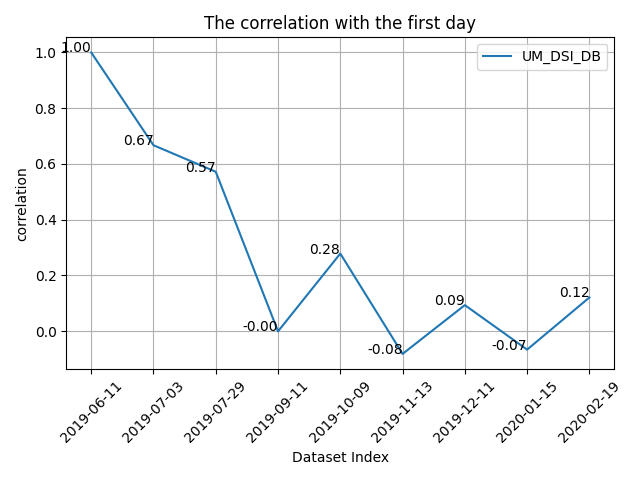
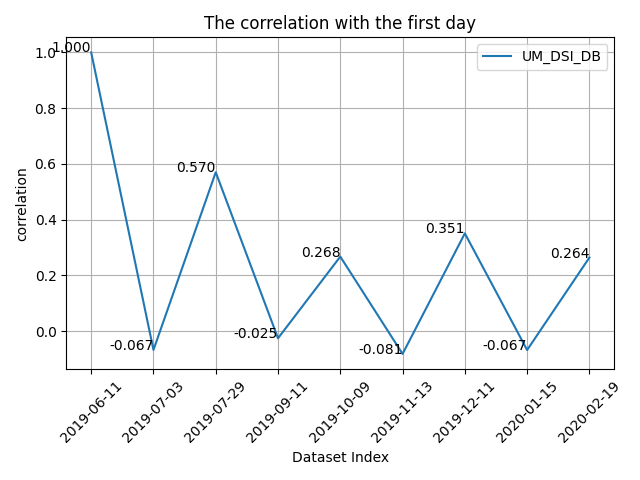
Modify corr_analysis

diff --git a/data/data_analysis/corr_analysis.py b/data/data_analysis/corr_analysis.py
@@ -40,7 +40,9 @@ def analyzing_dataset(datasets, sample_size):
 
         # 计算直方图之间的相关性
         correlations = []
-        for target_hist in hist_list:
+        for i, target_hist in enumerate(hist_list):
+            if i == 0:
+                continue
             correlation = cv2.compareHist(hist_list[0], target_hist, cv2.HISTCMP_CORREL)
             correlations.append(correlation)
         
@@ -49,23 +51,24 @@ def analyzing_dataset(datasets, sample_size):
         plt.plot(correlations, label=key)
         # Adding dataset index numbers
         for i, correlation in enumerate(correlations):
-            plt.text(i, correlation, f"{correlation:.2f}", ha='right')
+            plt.text(i, correlation, f"{correlation:.3f}", ha='right')
         
 
 
 
-file_list1 = ['../231116/GalaxyA51/wireless_training.csv', '../231218/GalaxyA51/wireless_training.csv', '../240117_troy/GalaxyA51/wireless_training.csv', '../240217_troy/GalaxyA51/wireless_training.csv', '../240319/GalaxyA51/wireless_training.csv']
-feature_selection1 = ['Beacon_1', 'Beacon_2', 'Beacon_3', 'Beacon_4', 'Beacon_5', 'Beacon_6', 'Beacon_7']
-file_list2 = ['../231116/GalaxyA51/wireless_training.csv', '../231218/GalaxyA51/wireless_training.csv', '../240117/GalaxyA51/wireless_training.csv', '../240217/GalaxyA51/wireless_training.csv', '../240319/GalaxyA51/wireless_training.csv']
+file_list1 = ['../231116/GalaxyA51/wireless_training.csv', '../231116/GalaxyA51/wireless_training.csv', '../231218/GalaxyA51/wireless_training.csv', '../240117_troy/GalaxyA51/wireless_training.csv', '../240217_troy/GalaxyA51/wireless_training.csv', '../240319/GalaxyA51/wireless_training.csv']
+feature_selection1 = ['Beacon_1', 'Beacon_2', 'Beacon_3']
+file_list2 = ['../231116/GalaxyA51/wireless_training.csv', '../231116/GalaxyA51/wireless_training.csv', '../231218/GalaxyA51/wireless_training.csv', '../240117/GalaxyA51/wireless_training.csv', '../240217/GalaxyA51/wireless_training.csv', '../240319/GalaxyA51/wireless_training.csv']
 feature_selection2 = ['Beacon_5', 'Beacon_6', 'Beacon_7']
-dir_list3 = ['UM_DSI_DB_v1.0.0_lite/data/tony_data/2019-06-11', 'UM_DSI_DB_v1.0.0_lite/data/tony_data/2019-10-09', 'UM_DSI_DB_v1.0.0_lite/data/tony_data/2020-02-19']
+dir_list3 = ['UM_DSI_DB_v1.0.0_lite/data/tony_data/2019-06-11', 'UM_DSI_DB_v1.0.0_lite/data/tony_data/2019-06-11', 'UM_DSI_DB_v1.0.0_lite/data/tony_data/2019-10-09', 'UM_DSI_DB_v1.0.0_lite/data/tony_data/2020-02-19']
 feature_selection3 = [] # use all feature
 datasets1 = {'Time variation': (file_list1, feature_selection1), 'Spatial variaton': (file_list1, feature_selection2)}
 folder_path = 'UM_DSI_DB'
 file_names = os.listdir(folder_path)
+file_names = ['data_2019-06-11.csv'] + file_names
 file_names_with_prefix = ['UM_DSI_DB/' + file_name for file_name in file_names]
 datasets2 = {'UM_DSI_DB': (file_names_with_prefix, [])}
-dates_only = [file_name[-14:-4] for file_name in file_names_with_prefix]
+dates_only = [file_name[-14:-4] for file_name in file_names_with_prefix][1:]
 
 print(file_names_with_prefix)
 print(dates_only)
